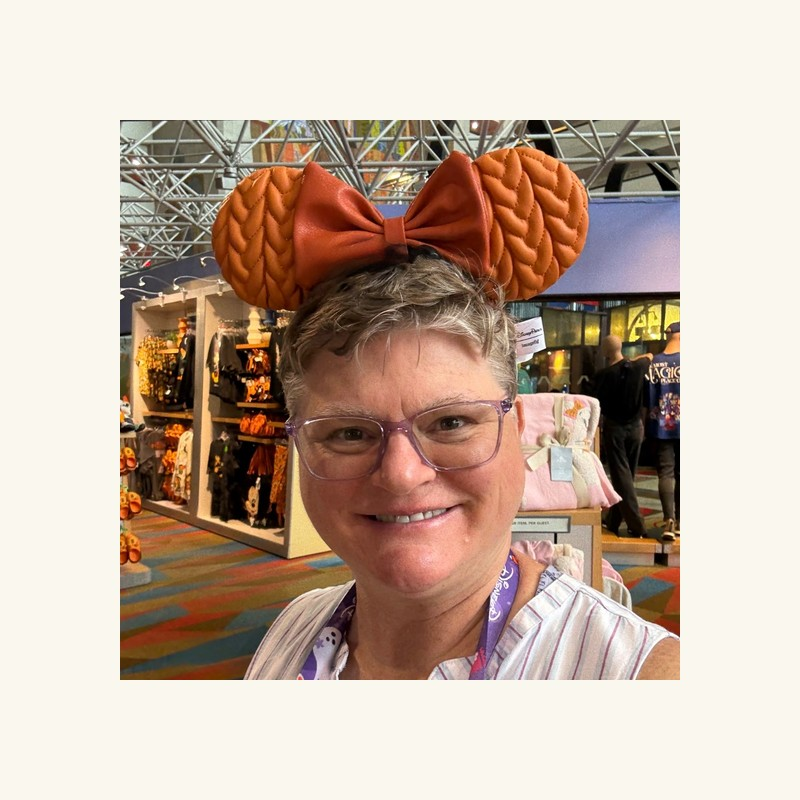
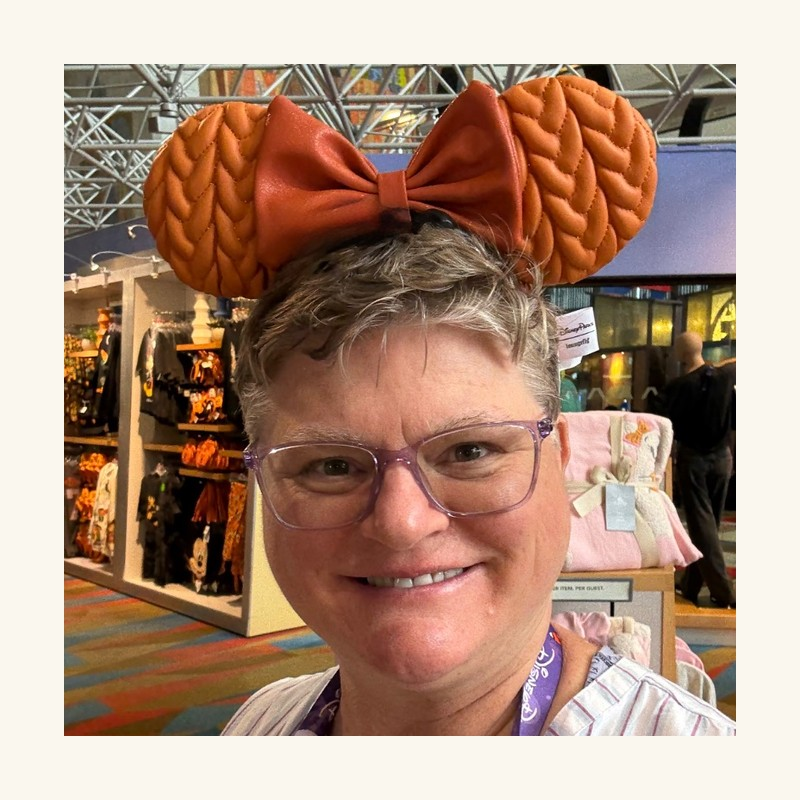
Zoom Donna’s directory headshot in slightly.
Tighten her crop a bit after the last padded zoom-out.

diff --git a/articles/welcome-aboard-donna.html b/articles/welcome-aboard-donna.html
@@ -122,7 +122,7 @@
       <p class="article-meta">Published August 2, 2026 · <a href="/agents/" style="color:var(--teal);">Travel agents</a></p>
 
       <div class="agent-feature-hero">
-        <div class="agent-feature-photo"><img src="/assets/agent-photos/donna-walters.jpg?v=4" alt="Donna Walters"></div>
+        <div class="agent-feature-photo"><img src="/assets/agent-photos/donna-walters.jpg?v=5" alt="Donna Walters"></div>
         <div>
           <h2>Donna Walters</h2>
           <p class="meta">EnchantAway Travel · Celebration, FL</p>

diff --git a/assets/agents-data.js b/assets/agents-data.js
@@ -101,7 +101,7 @@ window.CC_AGENT_PHOTO_OVERRIDES = {
   "emily-schultz": "/assets/agent-photos/emily-schultz.jpg?v=7",
   "martina-yost": "/assets/agent-photos/martina-yost.jpg?v=6",
   "kim-fanning": "/assets/agent-photos/kim-fanning.jpg?v=2",
-  "donna-walters": "/assets/agent-photos/donna-walters.jpg?v=4",
+  "donna-walters": "/assets/agent-photos/donna-walters.jpg?v=5",
   "shana-matos": "/assets/agent-photos/shana-matos.jpg?v=2",
   "rebekah-lukins": "/assets/agent-photos/rebekah-lukins.jpg?v=2"
 };
